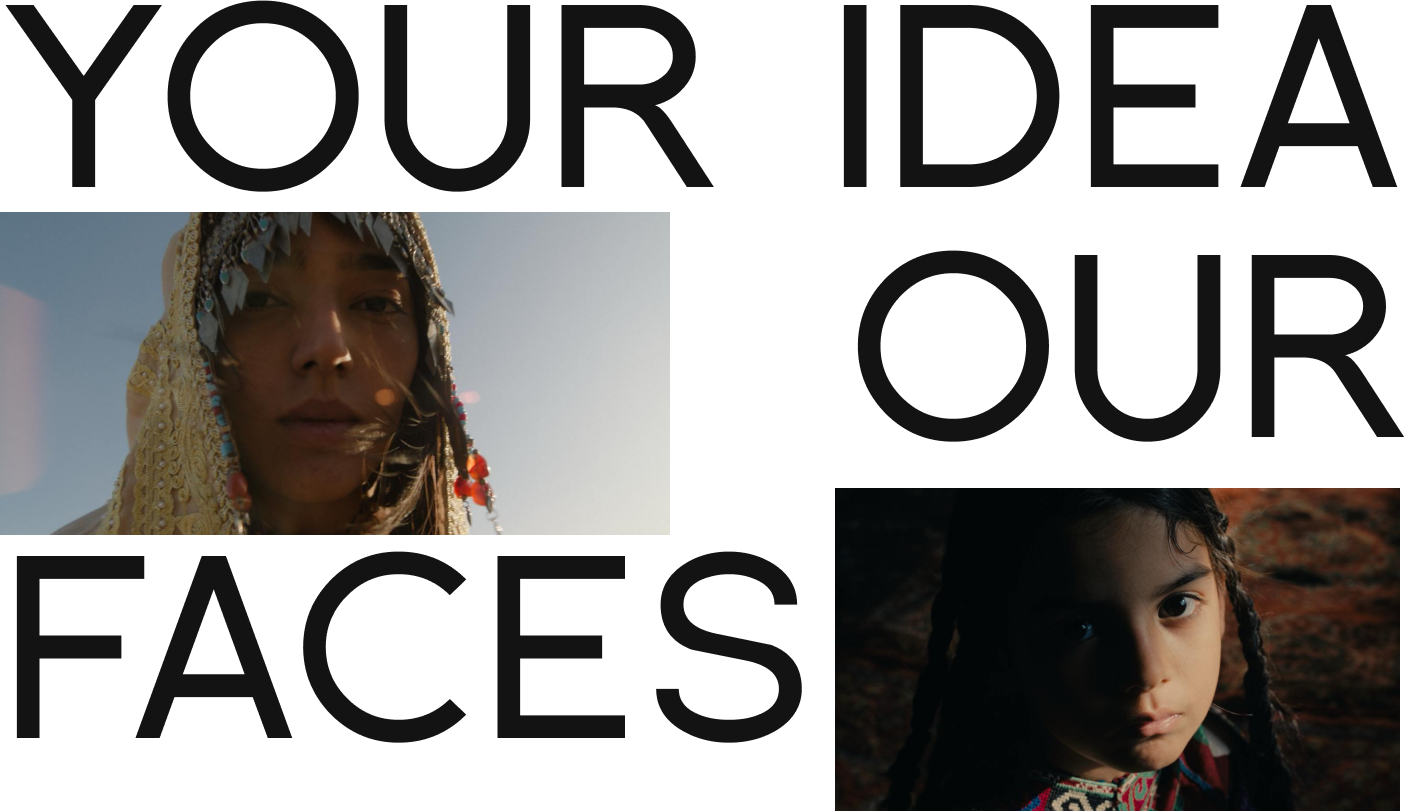
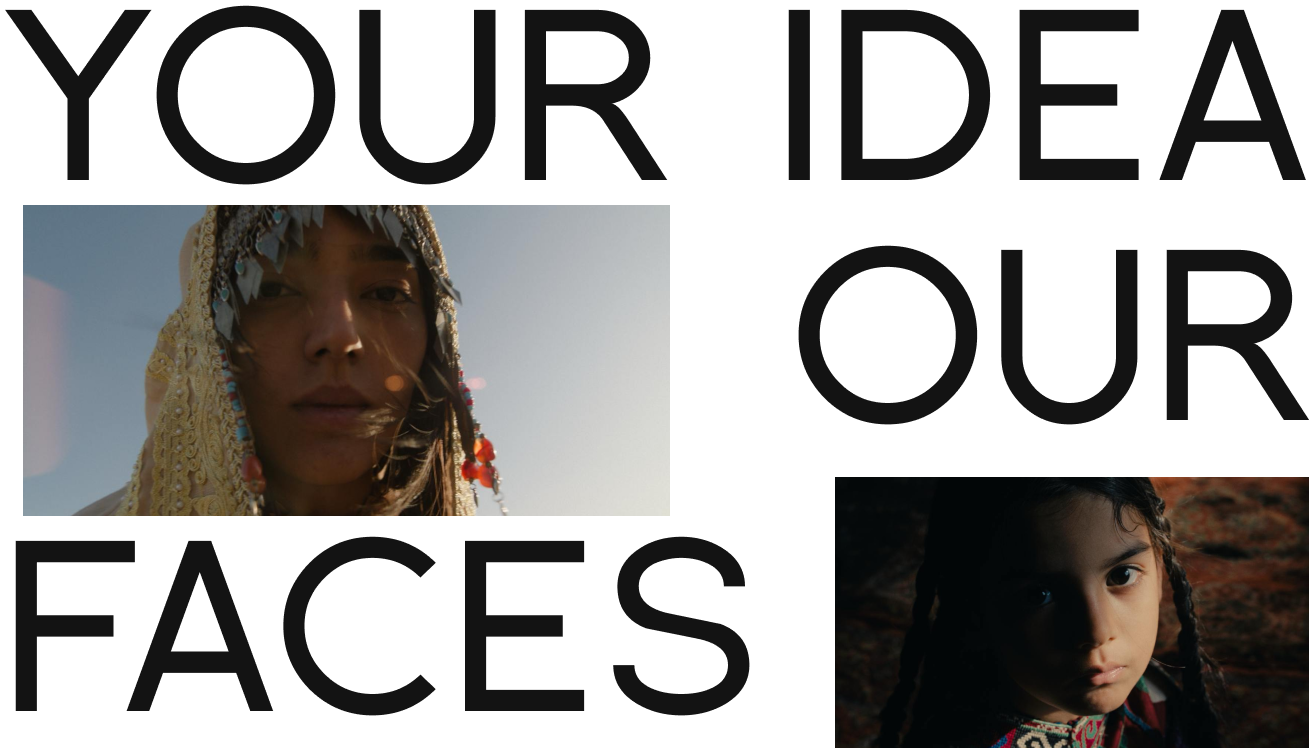
test

diff --git a/src/components/main/Hero.tsx b/src/components/main/Hero.tsx
@@ -1,19 +1,37 @@
 import React from "react";
 import Container from "../Container";
 import MainLink from "../shared/MainLink";
+import Text from "../shared/Text";
+import MainTitle from "../shared/MainTitle";
 import Slogan from "../shared/Slogan";
+
+const heroText = {
+  about:
+    "CAST BASE это кастинг‑агентство с более чем 100 проектами, 1000+ актерами и профессиональным сервисом для ваших проектов.",
+  subtitle: "Casting agency from Uzbekistan",
+};
 
 const Hero: React.FC = () => {
   return (
-    <section className="relative bg-secondary pt-16">
-      <MainLink text="full" href="/about" isPrimary className="bottom-1 left-[11%] lg:left-[17.5%] absolute z-10" />
-      <div>
-        <div className="relative  flex justify-center items-center">
-          <h1 className="flex justify-center items-center w-full lg:w-5/6 xl:w-full">
-            <img src="/hero1.png" alt="" className="xl:h-screen object-contain" />
-          </h1>
+    <section className="relative bg-secondary pt-20 md:pt-24 pb-4">
+      {/* <Slogan /> */}
+      <Container className="relative">
+        {/* <MainTitle /> */}
+        <div>
+          <div>
+            <img src="/actors/hero-img2.png" alt="ActorPhoto2" />
+            <Text text={heroText.about} />
+            <MainLink href="/about" text="full" className="block" isPrimary />
+          </div>
+          <div>
+            <div>
+              <img src="/actors/hero-img1.png" alt="ActorPhoto1" />
+              <Text text={heroText.subtitle} />
+            </div>
+            <img src="/actors/hero-img3.png" alt="ActorPhoto3" />
+          </div>
         </div>
-      </div>
+      </Container>
 
     </section>
   );

diff --git a/src/components/about/HeroAbout.tsx b/src/components/about/HeroAbout.tsx
@@ -2,10 +2,10 @@ import Container from "../Container";
 
 const HeroAbout = () => {
   return (
-    <section className="pt-16 sm:pt-16 md:pt-20">
+    <section className="pt-16 sm:pt-16 md:pt-16 2xl:pt-4">
       <Container>
         <div className="relative flex justify-center items-center">
-          <h1 className="flex justify-center items-center w-full md:w-5/6 xl:w-full">
+          <h1 className="flex justify-center items-center w-full">
             <img src="/about.png" alt="Your idea our faces" className="xl:h-screen object-contain" />
           </h1>
         </div>
